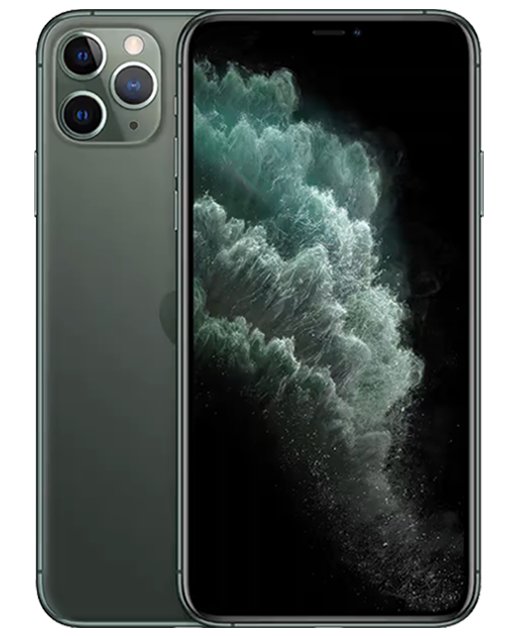
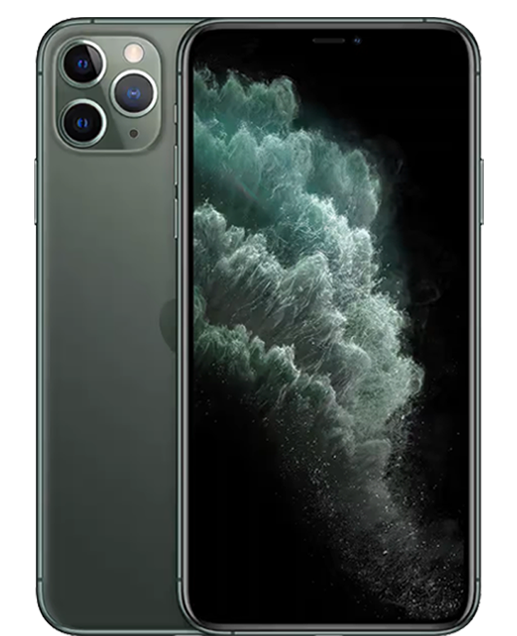
commit

Changed region(s): [[0.0619, 0.0, 0.9284, 1.0], [0.9284, 0.3286, 0.9594, 0.3585]]

diff --git a/src/iphone 13.html b/src/iphone 13.html
@@ -80,10 +80,10 @@
   <nav> <a href="index.html"><div><img src="../img/icons/HOME_ICOM.png" style="width: 50px; height: 50px;"></a></nav>
    <p><p style="color:rgb(0, 0, 0);">
    <p><p style="color:rgb(0, 0, 0);">
-    <button type="button" onclick="alert('Thank you for your purchase')">Buy This phone </button>
+    <button type="button" onclick="alert('Thank you for your purchase')">Buy  </button>
   <div class="main">
     
-    <div class="img"> <img src="../img/phones/iphone 13 pro max.PNG" class=""height="100%" width="130%"></div>
+    <div class="img"> <img src="../img/phones/iphone 13.PNG" class=""height="100%" width="90%"></div>
     <div class="info"><div class="grid-container">
       <div class="grid-item">Iphone 13 Pro max</div>
       <div class="grid-item">£1049</div>

diff --git a/src/index.html b/src/index.html
@@ -46,7 +46,7 @@
      </div>
 
      <div>
-      <nav> <a href="iphone 13.html"><img src="../img/phones/iphone 13 pro max.PNG" class="center"height="120%" width="120%"></a></nav>
+      <nav> <a href="iphone 13.html"><img src="../img/phones/iphone 13.PNG" class="center"height="120%" width="120%"></a></nav>
       <p style="color:rgb(255, 255, 255)"></p>
     </div> 
   </div>
